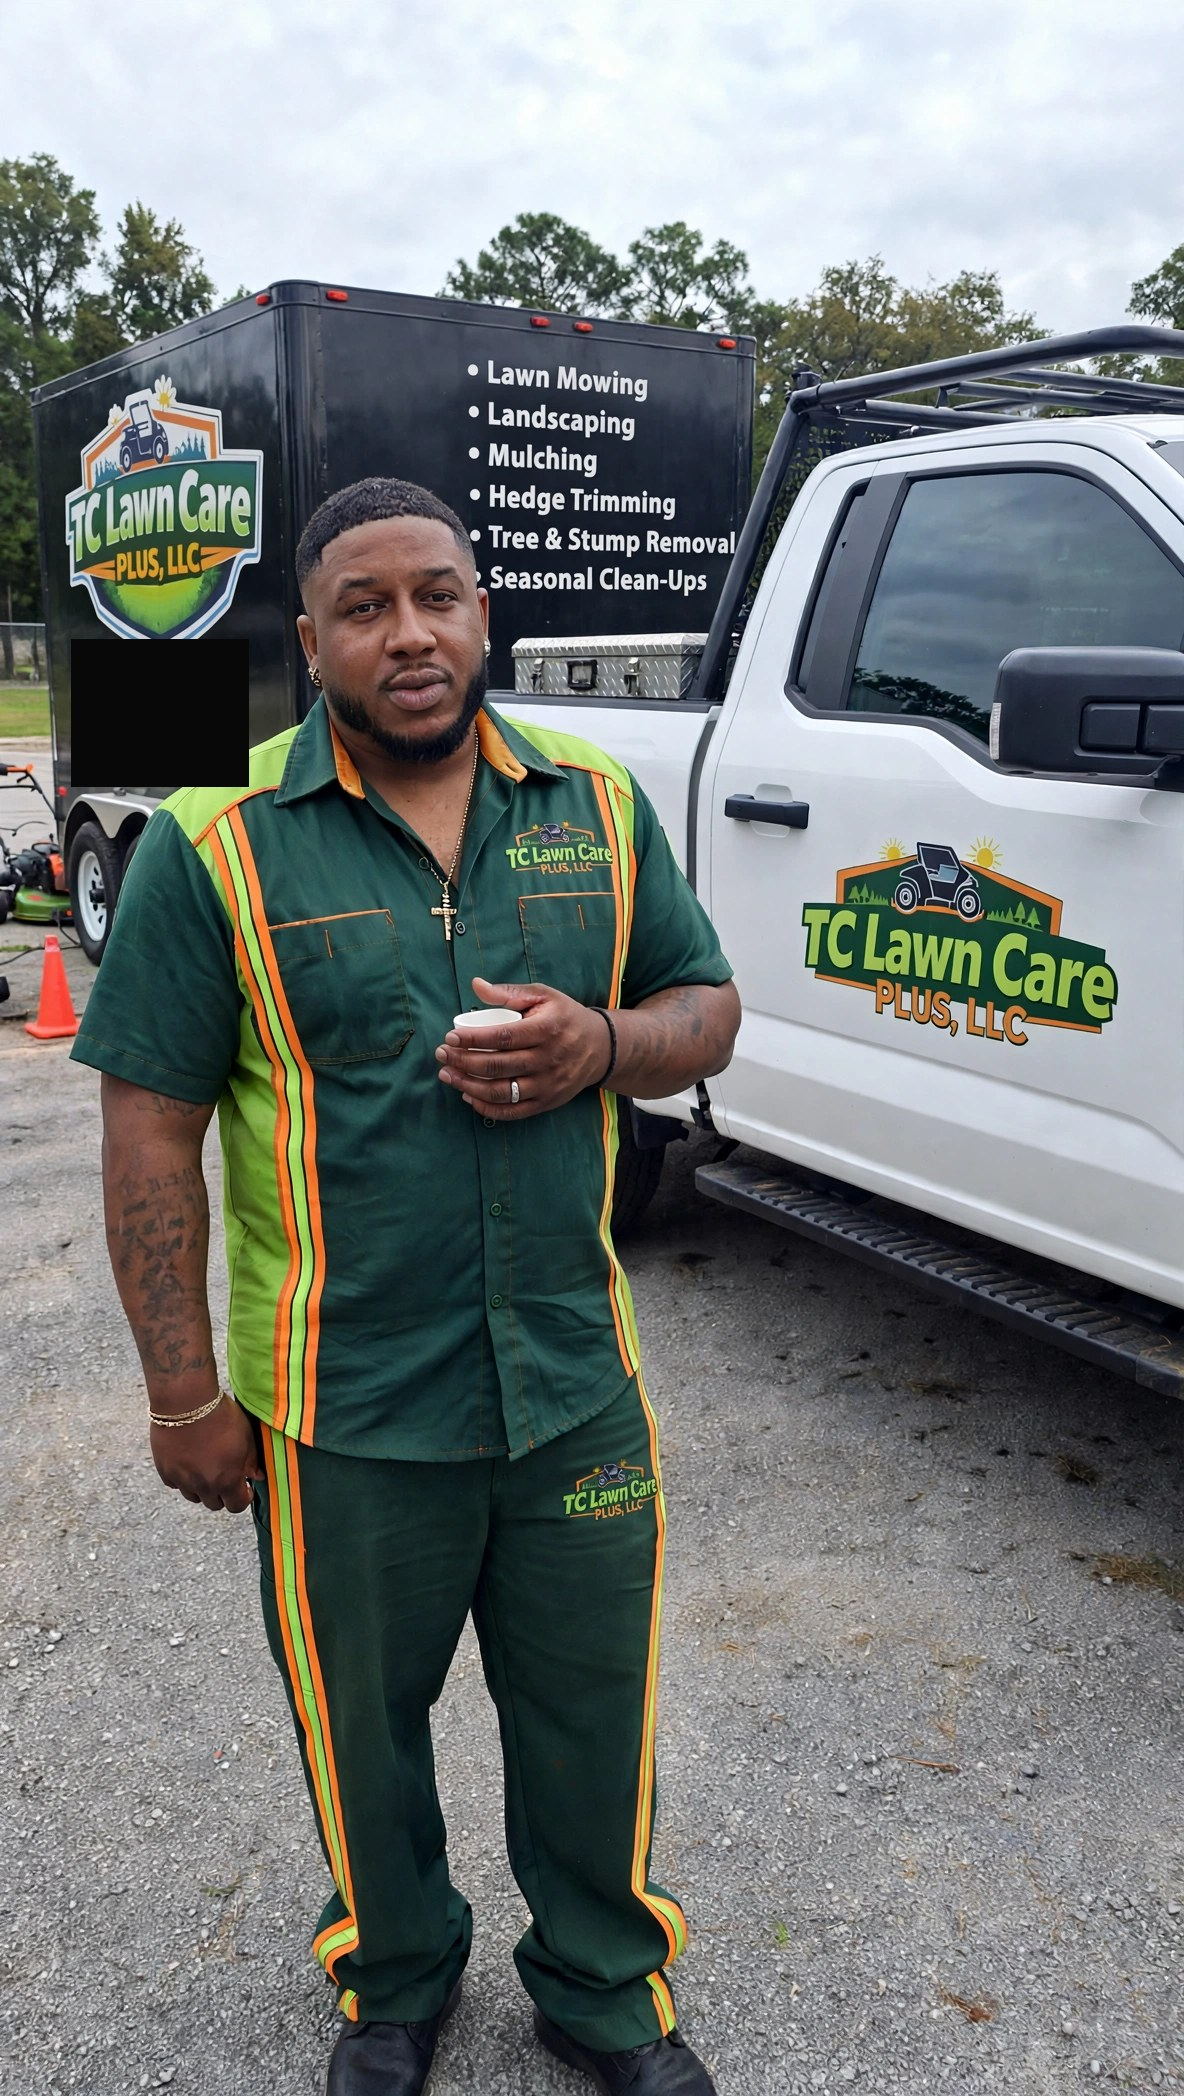
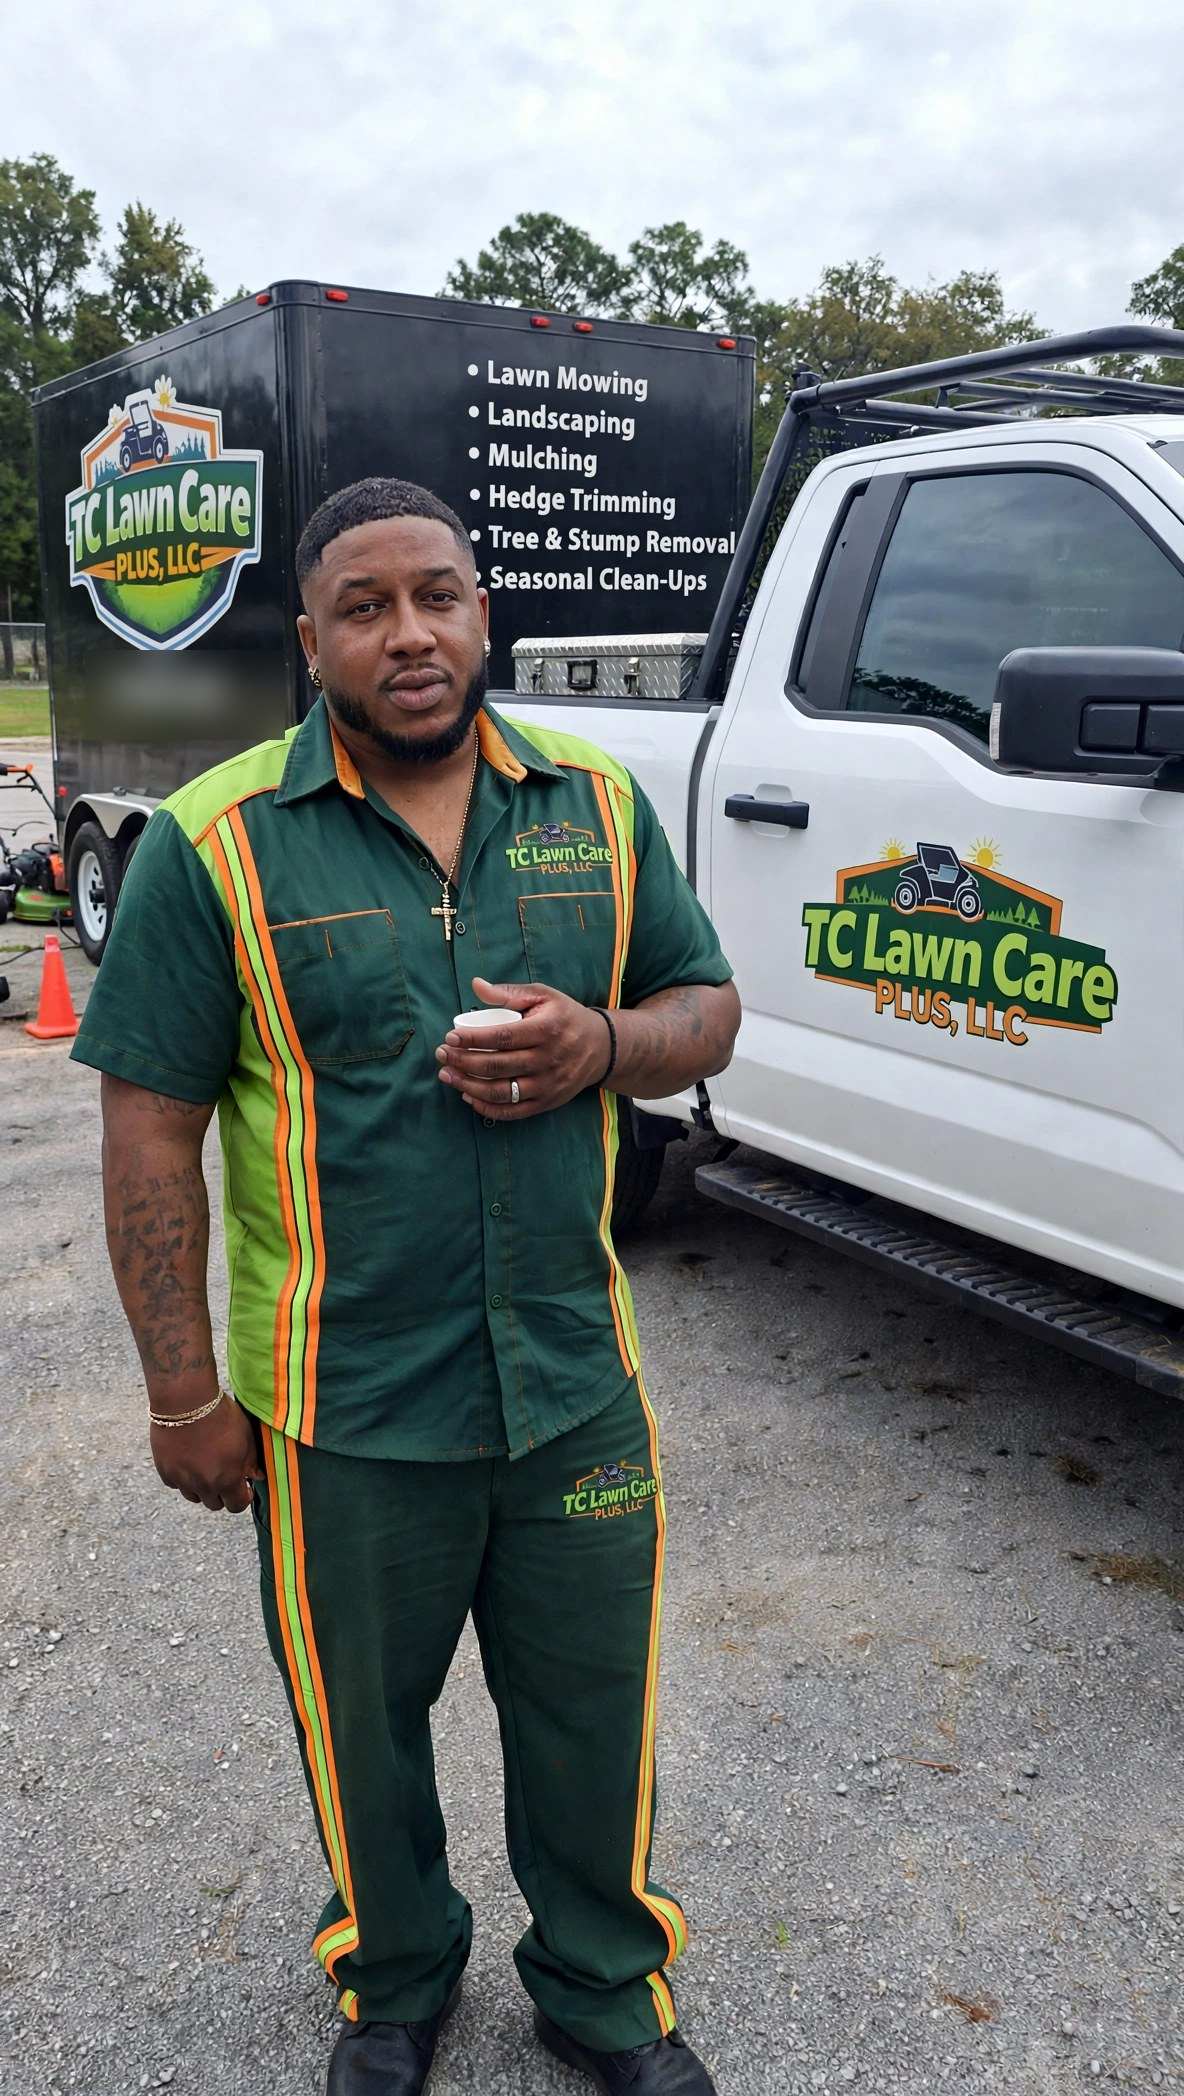
Blur trailer number, fix zero-turn caption, Craig circle pic, popup Book Now, clickable pictures
- Trailer pictures: black paint boxes replaced with a blur over the
  phone number (and over the QR code on the real trailer picture),
  so no number is readable and no black spot is left
- Featured zero-turn caption: image height fixed so it cannot
  overflow onto its caption; caption line spacing increased so
  the words do not overlap
- Motto circle picture is now T. Craig with the weed wacker
- Corner video popup gains a Book Now button underneath that
  closes the player and jumps to the booking form
- Every picture on the page is clickable to open bigger

Changed region(s): [[0.0625, 0.2791, 0.2188, 0.4031]]

diff --git a/public/styles.css b/public/styles.css
@@ -35,7 +35,14 @@ body {
 #video-popup[hidden] { display: none; }
 .video-popup-box { width: min(680px, 94%); position: relative; }
 .video-popup-box video { width: 100%; border-radius: 12px; border: 3px solid var(--gold); background: #000; }
+.video-popup-box .btn { display: block; width: 100%; text-align: center; margin-top: 12px; text-decoration: none; box-sizing: border-box; }
 #video-popup-close { position: absolute; top: -12px; right: -12px; width: 34px; height: 34px; border-radius: 50%; border: 0; background: var(--gold); color: #111; font-size: 1.3rem; font-weight: 800; line-height: 1; cursor: pointer; }
+main img, header img { cursor: zoom-in; }
+#img-lightbox { position: fixed; inset: 0; background: rgba(0,0,0,0.85); z-index: 100; display: flex; align-items: center; justify-content: center; padding: 12px; }
+#img-lightbox[hidden] { display: none; }
+.img-lightbox-box { width: min(860px, 96%); max-height: 92vh; position: relative; }
+.img-lightbox-box img { width: 100%; max-height: 92vh; object-fit: contain; border-radius: 12px; border: 3px solid var(--gold); background: #000; cursor: zoom-out; }
+#img-lightbox-close { position: absolute; top: -12px; right: -12px; width: 34px; height: 34px; border-radius: 50%; border: 0; background: var(--gold); color: #111; font-size: 1.3rem; font-weight: 800; line-height: 1; cursor: pointer; }
 .banner h1 { font-size: clamp(2rem, 8vw, 3.4rem); margin: 12px 0 4px; text-shadow: 0 2px 0 #000, 0 0 24px rgba(163,230,53,0.45); }
 .c-dark { color: #fff; }
 .c-lime { color: var(--lime); }
@@ -62,7 +69,9 @@ main { max-width: 860px; margin: 0 auto; padding: 8px 12px 24px; }
   width: 100%; height: 100%; object-fit: cover; border-radius: 12px;
   border: 3px solid var(--gold); box-shadow: 0 6px 20px rgba(0,0,0,0.5);
 }
-.featured-pair img { aspect-ratio: 3 / 4; }
+.featured-pair img { aspect-ratio: 3 / 4; height: auto; }
+.featured-pair figure { margin-bottom: 8px; }
+.featured-pair figcaption { line-height: 1.35; padding: 10px 4px 8px; }
 .gallery { display: grid; grid-template-columns: 1fr 1fr; gap: 14px; }
 .gallery img { aspect-ratio: 4 / 3; }
 figcaption { text-align: center; padding: 8px 4px 4px; font-weight: 600; }

diff --git a/public/app.js b/public/app.js
@@ -116,6 +116,14 @@
       cornerVideo.muted = true;
       cornerVideo.play().catch(function () {});
     });
+    // Book Now under the popped-up video: close the player, then the link
+    // jumps to the booking form.
+    $("video-popup-book").addEventListener("click", function () {
+      popupVideo.pause();
+      popup.hidden = true;
+      cornerVideo.muted = true;
+      cornerVideo.play().catch(function () {});
+    });
     popup.addEventListener("click", function (e) {
       if (e.target === popup) {
         popupVideo.pause();
@@ -128,6 +136,30 @@
       e.stopPropagation();
       cornerVideo.pause();
       cornerBox.hidden = true;
+    });
+  }
+
+  // ---- Clickable pictures -------------------------------------------------
+  // Every picture on the page opens bigger, so visitors can see it better.
+  var imgBox = $("img-lightbox");
+  var imgEl = $("img-lightbox-el");
+  if (imgBox && imgEl) {
+    document.querySelectorAll("img:not(#img-lightbox-el)").forEach(function (pic) {
+      pic.addEventListener("click", function () {
+        imgEl.src = pic.currentSrc || pic.src;
+        imgEl.alt = pic.alt || "";
+        imgBox.hidden = false;
+      });
+    });
+    $("img-lightbox-close").addEventListener("click", function () {
+      imgBox.hidden = true;
+      imgEl.removeAttribute("src");
+    });
+    imgBox.addEventListener("click", function (e) {
+      if (e.target === imgBox) {
+        imgBox.hidden = true;
+        imgEl.removeAttribute("src");
+      }
     });
   }
 

diff --git a/public/index.html b/public/index.html
@@ -10,7 +10,7 @@
 <header class="top">
   <img class="logo" src="/images/logo.jpg" alt="TC Lawn Care Plus LLC logo">
   <div class="motto">
-    <img class="motto-man" src="/images/little-man-weed-wacker.webp" alt="Man in uniform with a weed wacker">
+    <img class="motto-man" src="/images/little-man-weed-wacker.webp" alt="T. Craig with a weed wacker">
     <p>Where the grass will grow is where we will mow</p>
   </div>
   <video class="video-strip" src="/videos/walking-strip.mp4" autoplay muted loop playsinline aria-label="Man in uniform walking and weed whacking"></video>
@@ -148,10 +148,17 @@
   <video id="corner-video-el" src="/videos/book-now-corner.mp4" autoplay muted loop playsinline aria-label="Crew saying book now"></video>
   <button id="corner-video-dismiss" aria-label="Hide video">×</button>
 </div>
+<div id="img-lightbox" hidden>
+  <div class="img-lightbox-box">
+    <button id="img-lightbox-close" aria-label="Close picture">×</button>
+    <img id="img-lightbox-el" src="" alt="">
+  </div>
+</div>
 <div id="video-popup" hidden>
   <div class="video-popup-box">
     <button id="video-popup-close" aria-label="Close video">×</button>
     <video id="video-popup-el" src="/videos/book-now-corner.mp4" controls playsinline></video>
+    <a id="video-popup-book" class="btn" href="#booking">Book Now</a>
   </div>
 </div>
 <script src="/app.js"></script>
